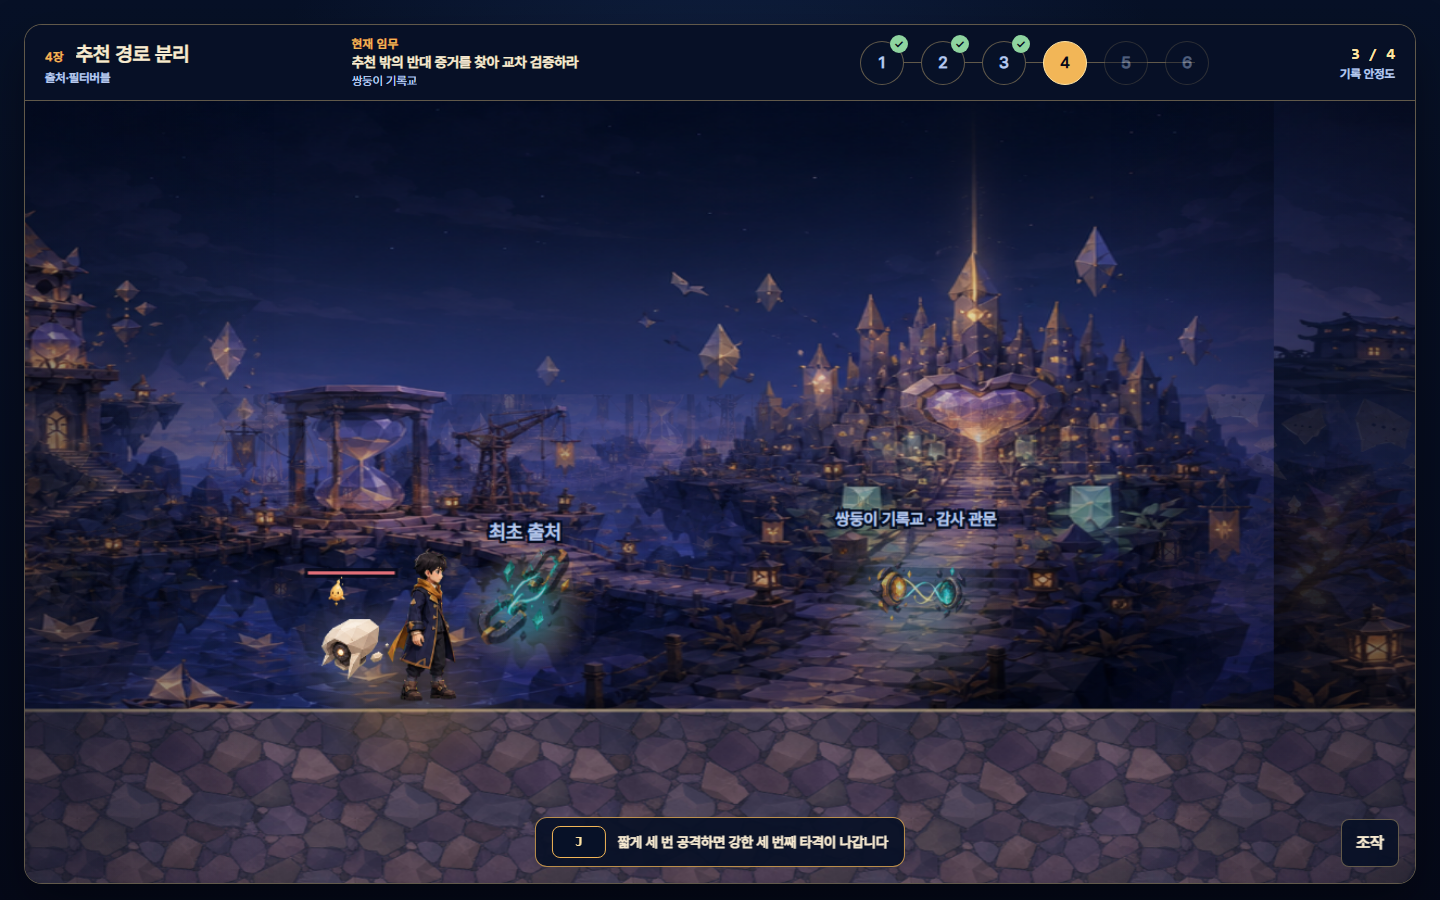
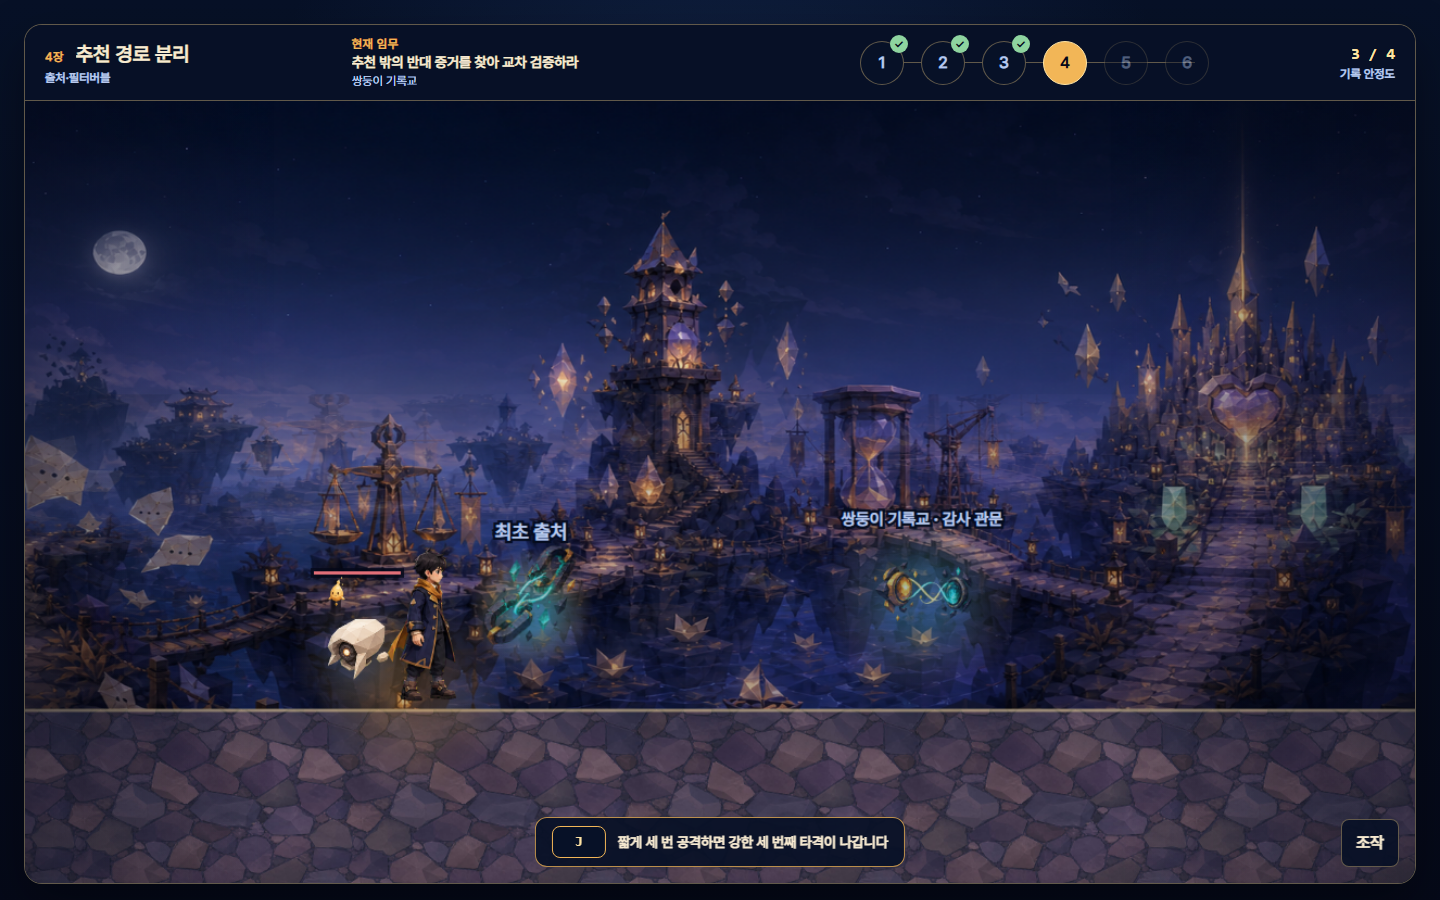
fix(2d): remove scrolling background seams

diff --git a/src/illustrated/sideScrollScene.js b/src/illustrated/sideScrollScene.js
@@ -29,6 +29,12 @@ function drawImageCell(context, image, cell, frame) {
   context.restore();
 }
 
+function pingPong(value, range) {
+  if (range <= 0) return 0;
+  const cycle = value % (range * 2);
+  return cycle <= range ? cycle : range * 2 - cycle;
+}
+
 export function createSideScrollRenderer({ context, images, palette, width = 1280, height = 720 }) {
   function drawGlow(x, y, radius, color, strength = 0.62) {
     const gradient = context.createRadialGradient(x, y, 0, x, y, radius);
@@ -51,18 +57,16 @@ export function createSideScrollRenderer({ context, images, palette, width = 128
     if (image.complete && image.naturalWidth > 0) {
       context.imageSmoothingEnabled = true;
       context.imageSmoothingQuality = 'high';
-      for (let panel = -1; panel <= 1; panel += 1) {
-        const panelX = layout.farBackgroundX + panel * width;
-        const sourceWidth = image.naturalWidth / 2;
-        const sourceX = ((state.chapterIndex + panel + 6) % 2) * sourceWidth;
-        context.drawImage(image, sourceX, 0, sourceWidth, image.naturalHeight, panelX, 0, width, height);
-      }
+      const farSourceWidth = image.naturalWidth * 0.82;
+      const farRange = image.naturalWidth - farSourceWidth;
+      const farSourceX = pingPong(Math.abs(layout.farBackgroundX) + state.chapterIndex * 61, farRange);
+      context.drawImage(image, farSourceX, 0, farSourceWidth, image.naturalHeight, 0, 0, width, height);
       context.save();
       context.globalAlpha = 0.22;
-      for (let panel = -1; panel <= 1; panel += 1) {
-        const panelX = layout.midBackgroundX + panel * width;
-        context.drawImage(image, 0, image.naturalHeight * 0.42, image.naturalWidth, image.naturalHeight * 0.58, panelX, 270, width, 300);
-      }
+      const midSourceWidth = image.naturalWidth * 0.7;
+      const midRange = image.naturalWidth - midSourceWidth;
+      const midSourceX = pingPong(Math.abs(layout.midBackgroundX) + state.chapterIndex * 113, midRange);
+      context.drawImage(image, midSourceX, image.naturalHeight * 0.42, midSourceWidth, image.naturalHeight * 0.58, 0, 270, width, 300);
       context.restore();
     }
     const veil = context.createLinearGradient(0, 0, width, height);
